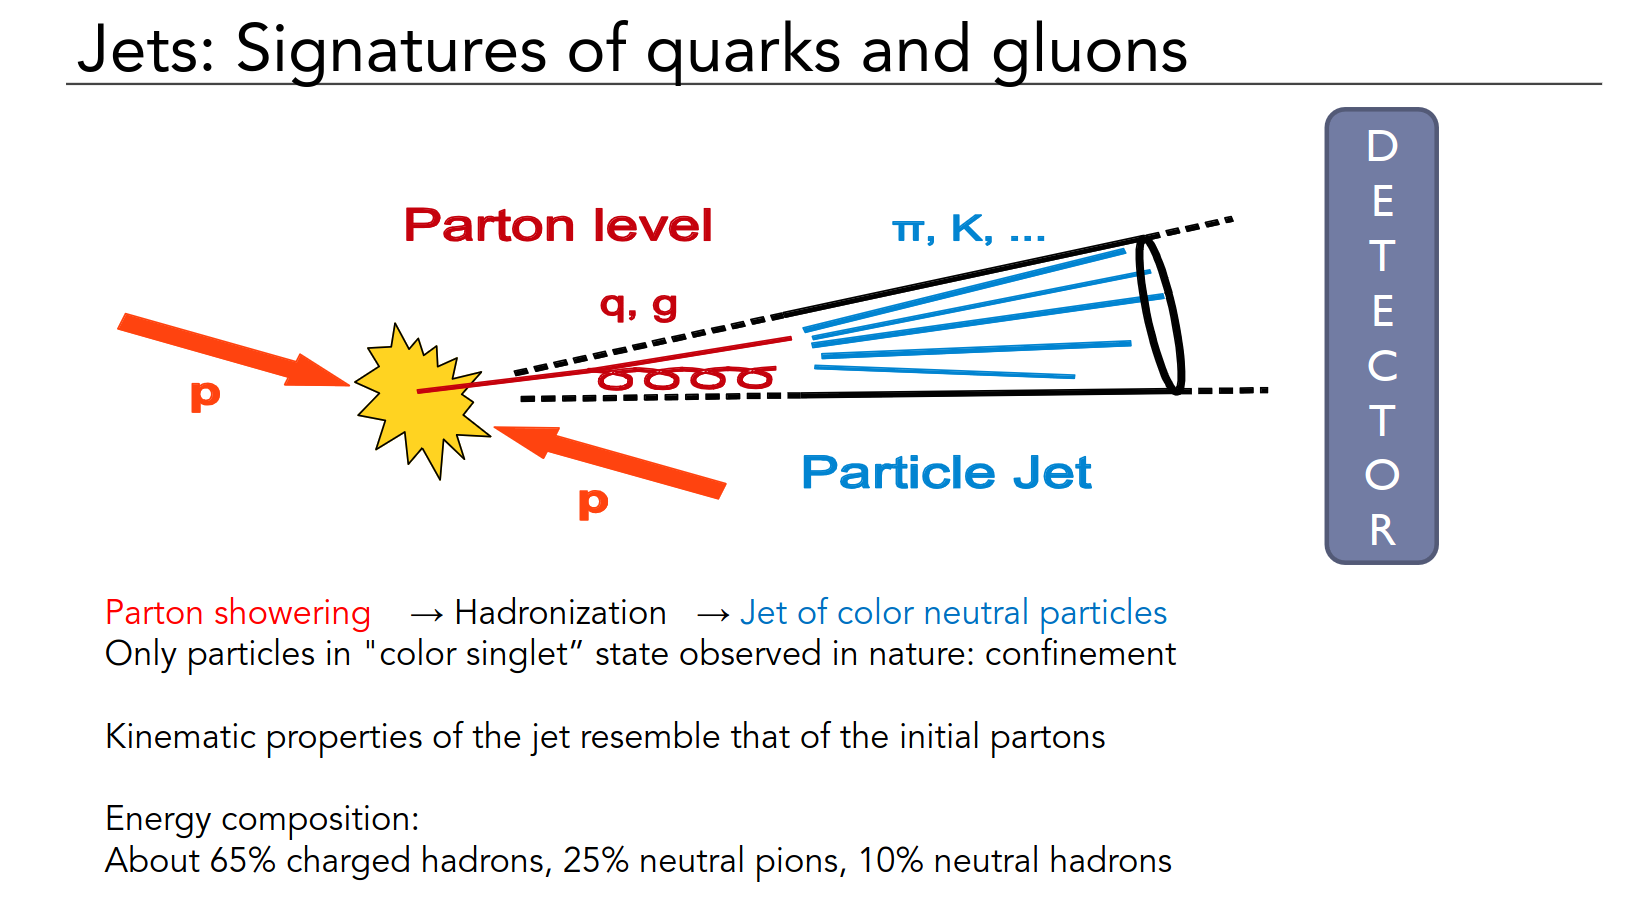
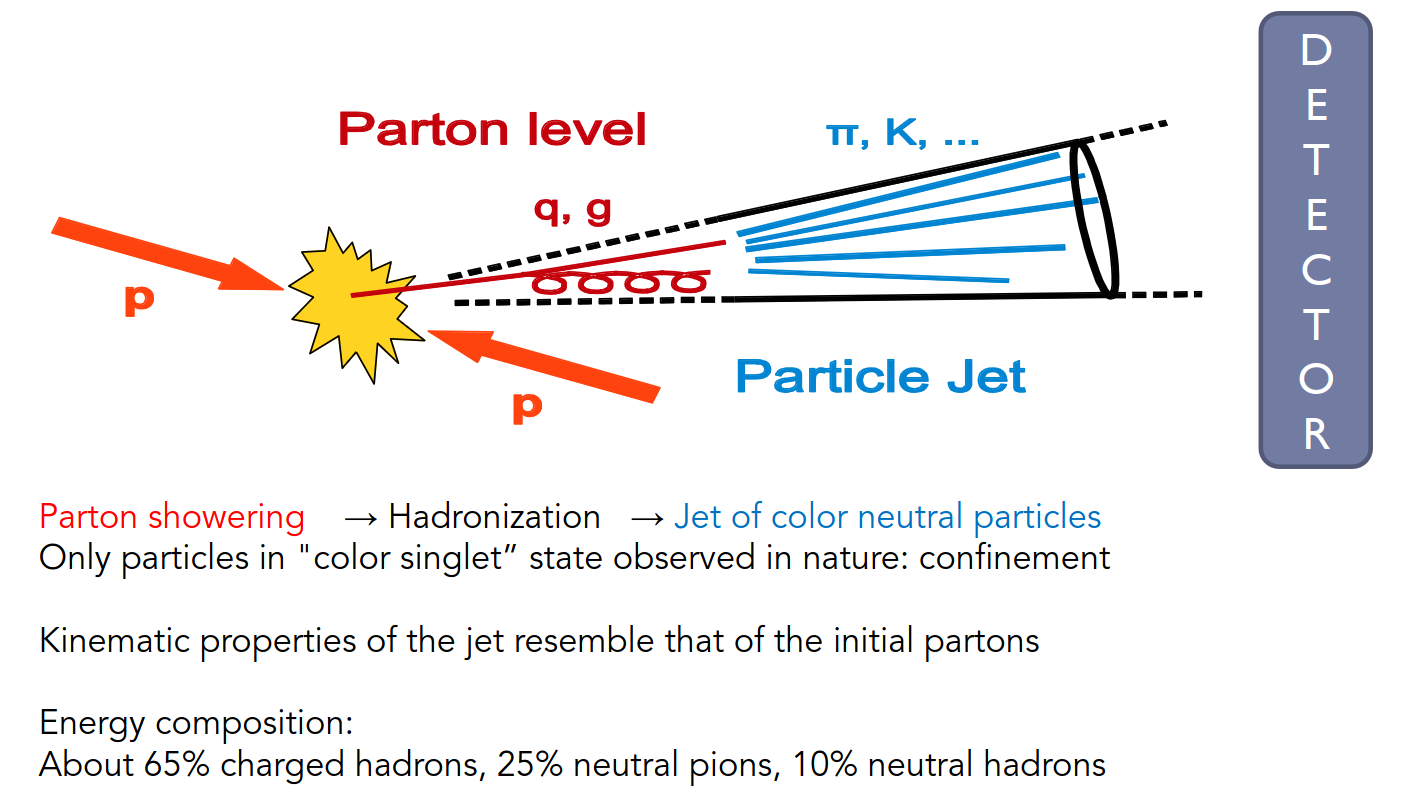
adding slide

diff --git a/_episodes/01-jets101.md b/_episodes/01-jets101.md
@@ -32,8 +32,14 @@ Full set of intro slides: Slides 1-24 (FIXME)
 
 ## Jet Basics
 
+### Jets as signatures of quarks and gluons
 
 <img src="../fig/episode1/jets101_1.png" alt="" >
+![signature](../fig/episode1/jets101_1.png){: .image-with-shadow }
+
+> ## But jets are messy
+> ![messy](../fig/episode1/jets101_2.png)
+{: .callout}
 
 > ## Open a notebook
 >
